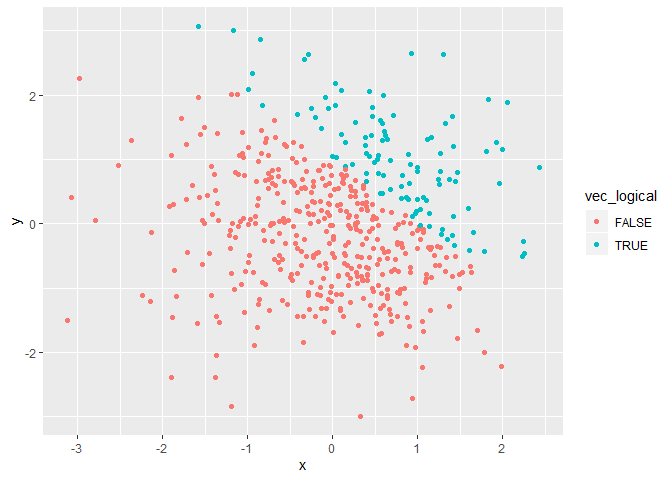
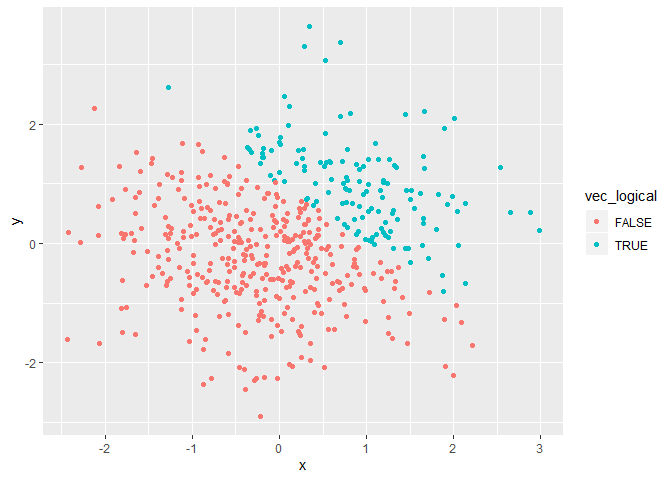
Modify the Rmd file

diff --git a/p8105_hw1_yq2279.md b/p8105_hw1_yq2279.md
@@ -105,10 +105,6 @@ logical_to_fac_to_num_multi_s = logical_to_fac_to_num * pull(df, vec_numeric)
 
 # Problem 2
 
-``` r
-rm(list = ls())
-```
-
 First we create a data frame.
 
 ``` r
@@ -123,10 +119,10 @@ df_2 = tibble(
 
   - The size of the dataset is nrow = 500, ncol = 5.
 
-  - The mean, median, and standard deviation of x is 0.0451418,
-    0.1162768, and 0.9379707.
+  - The mean, median, and standard deviation of x is 0.0383253,
+    0.0282489, and 0.9755851.
 
-  - the proportion of cases for which x + y \> 1 is 21.2%.
+  - the proportion of cases for which x + y \> 1 is 27.4%.
 
 Then make a scatterplot of y vs x; color points using the logical
 variable and export it.
